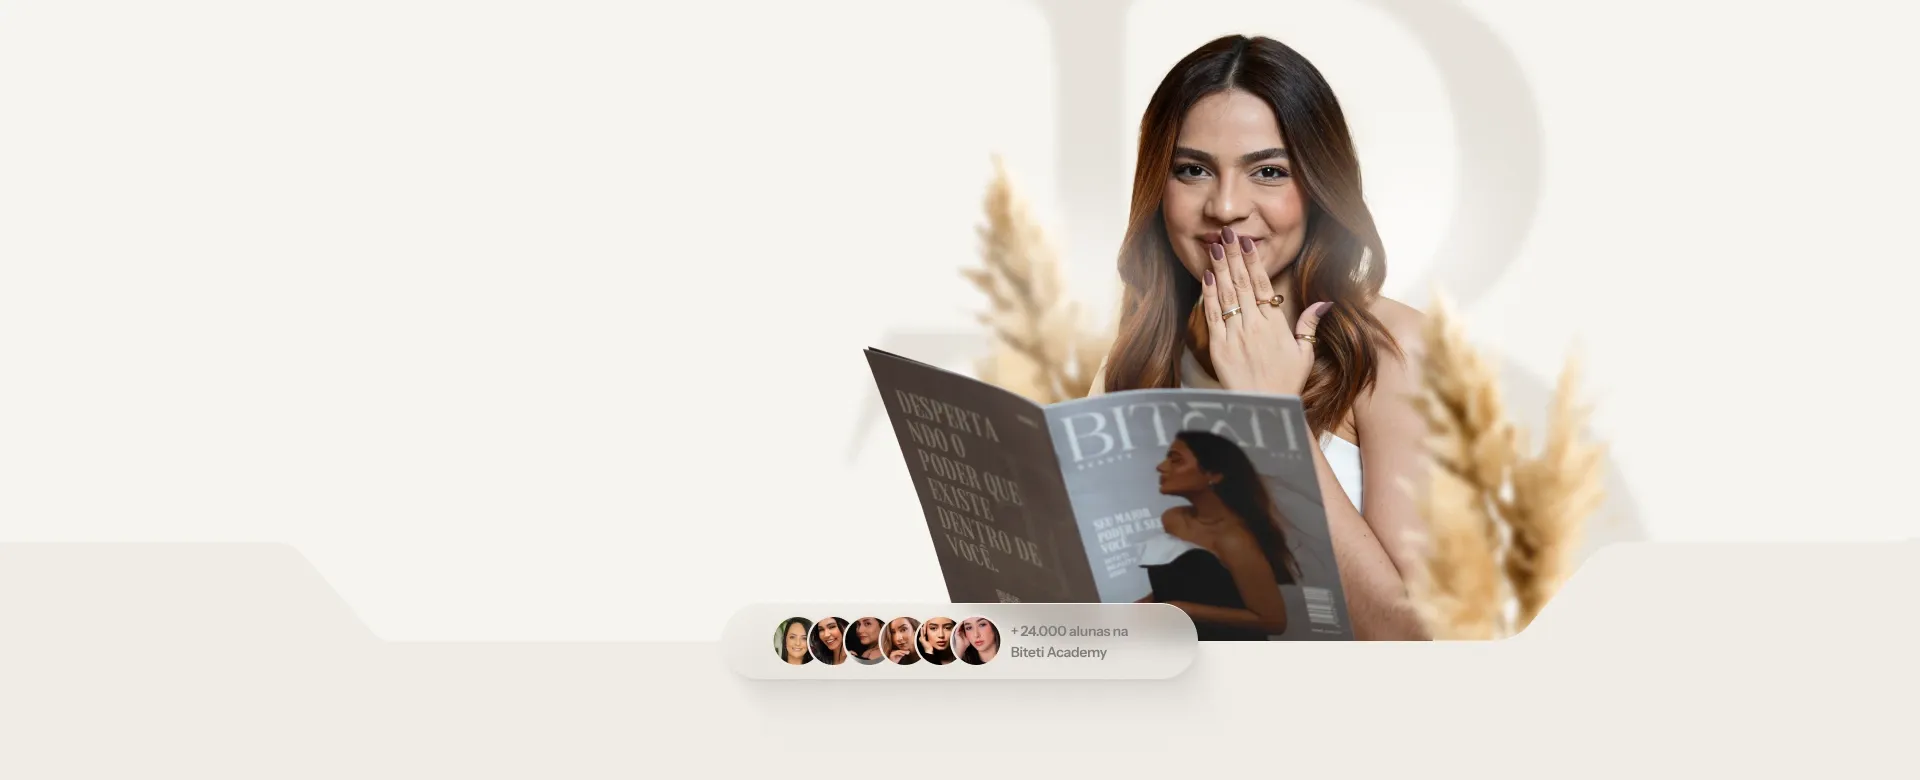
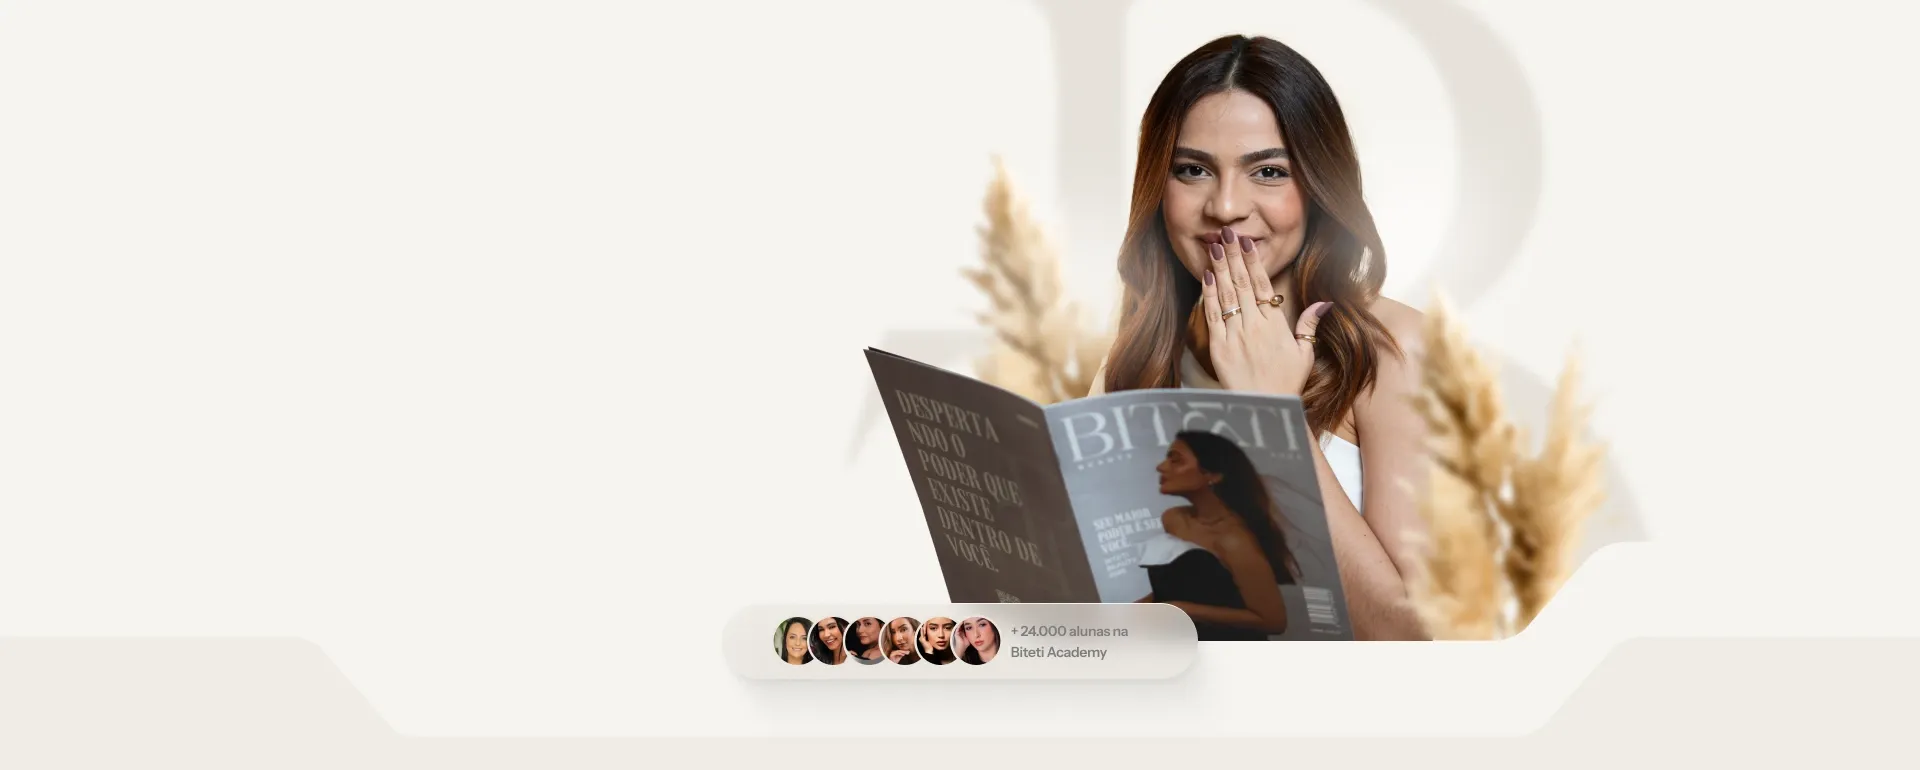
Hero: imagens desktop3/ultrawide por breakpoint, texto a esquerda mais largo, fontes responsivas; tablet colado no topo como mobile

diff --git a/index.html b/index.html
@@ -83,8 +83,8 @@
   .btn-row{margin-top:28px}
   .btn-ghost{background:none;color:var(--brown-1);border:1.5px solid var(--line);border-radius:999px;padding:14px 24px;font-weight:600;cursor:pointer}
 
-  /* Hero da abertura — MOBILE: imagem no topo / conteúdo abaixo */
-  .hero-img{width:100vw;margin-left:calc(-50vw + 50%);margin-top:-64px;aspect-ratio:1080/720;
+  /* Hero da abertura — MOBILE/TABLET: imagem no topo / conteúdo abaixo */
+  .hero-img{width:100vw;margin-left:calc(-50vw + 50%);margin-top:-76px;aspect-ratio:1080/720;
     background:url('hero-mobile.webp') center top/cover no-repeat}
   .open-content{margin-top:8px}
   .oc-inner{width:100%}
@@ -92,21 +92,22 @@
   @media(min-width:900px){
     .step[data-open]{margin-top:-76px}                 /* remove a margem no topo */
     .hero-wrap{width:100vw;margin-left:calc(-50vw + 50%);display:flex;align-items:flex-start;
-      min-height:min(41vw,790px);
-      background:#F0ECE6 url('hero-desktop.webp') no-repeat top center;background-size:min(100%,1920px) auto}
+      min-height:41vw;                                 /* casa com a altura da imagem (notebook) */
+      background:#F0ECE6 url('hero-desktop.webp') no-repeat top center;background-size:100% auto}
     .hero-img{display:none}
-    .open-content{margin:0 auto;width:100%;max-width:1240px;padding:clamp(34px,4.5vw,80px) 48px 48px}
-    .oc-inner{max-width:clamp(400px,32vw,480px)}
+    /* conteúdo alinhado à esquerda, dentro do espaço claro, sem passar por cima dela */
+    .open-content{width:100%;margin:0;padding:clamp(34px,4.5vw,90px) 48px 40px clamp(40px,7vw,300px)}
+    .oc-inner{max-width:min(34vw,620px)}
     .oc-inner .open-badge{font-size:clamp(12px,.95vw,14px);margin-bottom:clamp(14px,1.4vw,22px)}
-    .oc-inner h1{font-size:clamp(24px,2.25vw,36px);line-height:1.22;margin-bottom:clamp(12px,1.2vw,18px)}
-    .oc-inner .open-list li{font-size:clamp(14px,1.05vw,17px);padding:clamp(5px,.5vw,9px) 0}
-    .oc-inner .open-list{margin:clamp(16px,1.6vw,24px) 0 clamp(20px,2vw,30px)}
-    .oc-inner .btn.full{width:auto;padding:clamp(13px,1vw,16px) clamp(26px,2vw,34px);font-size:clamp(15px,1.05vw,17px)}
+    .oc-inner h1{font-size:clamp(25px,2.4vw,40px);line-height:1.2;margin-bottom:clamp(12px,1.2vw,20px)}
+    .oc-inner .open-list li{font-size:clamp(14px,1.05vw,18px);padding:clamp(5px,.5vw,9px) 0}
+    .oc-inner .open-list{margin:clamp(16px,1.6vw,26px) 0 clamp(20px,2vw,32px)}
+    .oc-inner .btn.full{width:auto;padding:clamp(13px,1vw,17px) clamp(26px,2vw,36px);font-size:clamp(15px,1.05vw,18px)}
     .oc-inner .btn-row{margin-top:0}
   }
-  /* Ultrawide: não deixa o hero gigante */
+  /* Ultrawide: imagem própria (mais larga/baixa) */
   @media(min-width:1700px){
-    .hero-wrap{min-height:700px}
+    .hero-wrap{background-image:url('hero-ultrawide.webp');min-height:24vw}
   }
 
   /* Abertura */
@@ -248,6 +249,7 @@
   /* ================= MOBILE ================= */
   @media (max-width:560px){
     .stage{padding:64px 0 44px}
+    .hero-img{margin-top:-64px}
     .wrap,.wrap.wide{padding:0 1.5em}
     h1{font-size:27px}
     h2{font-size:23px}